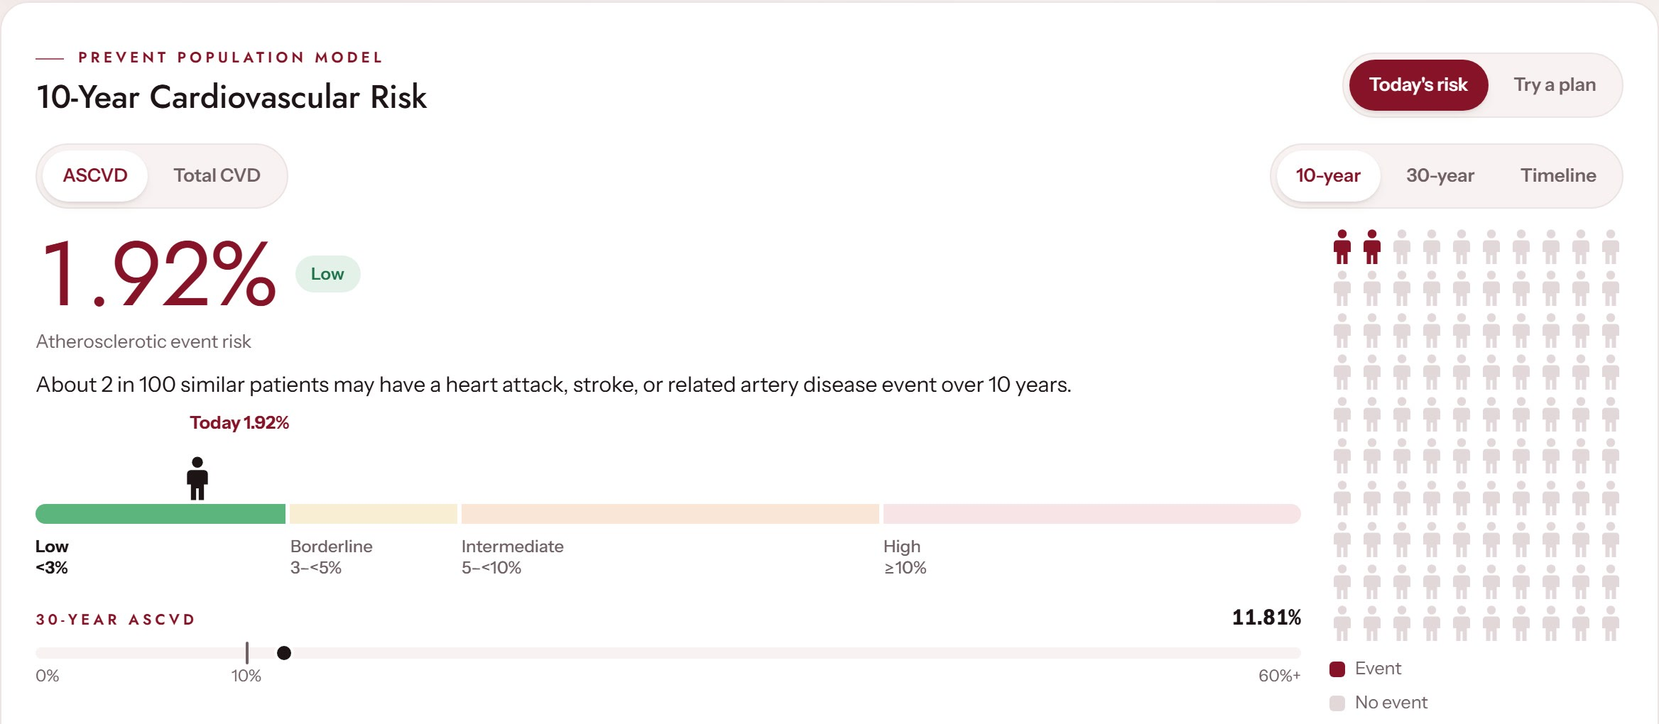
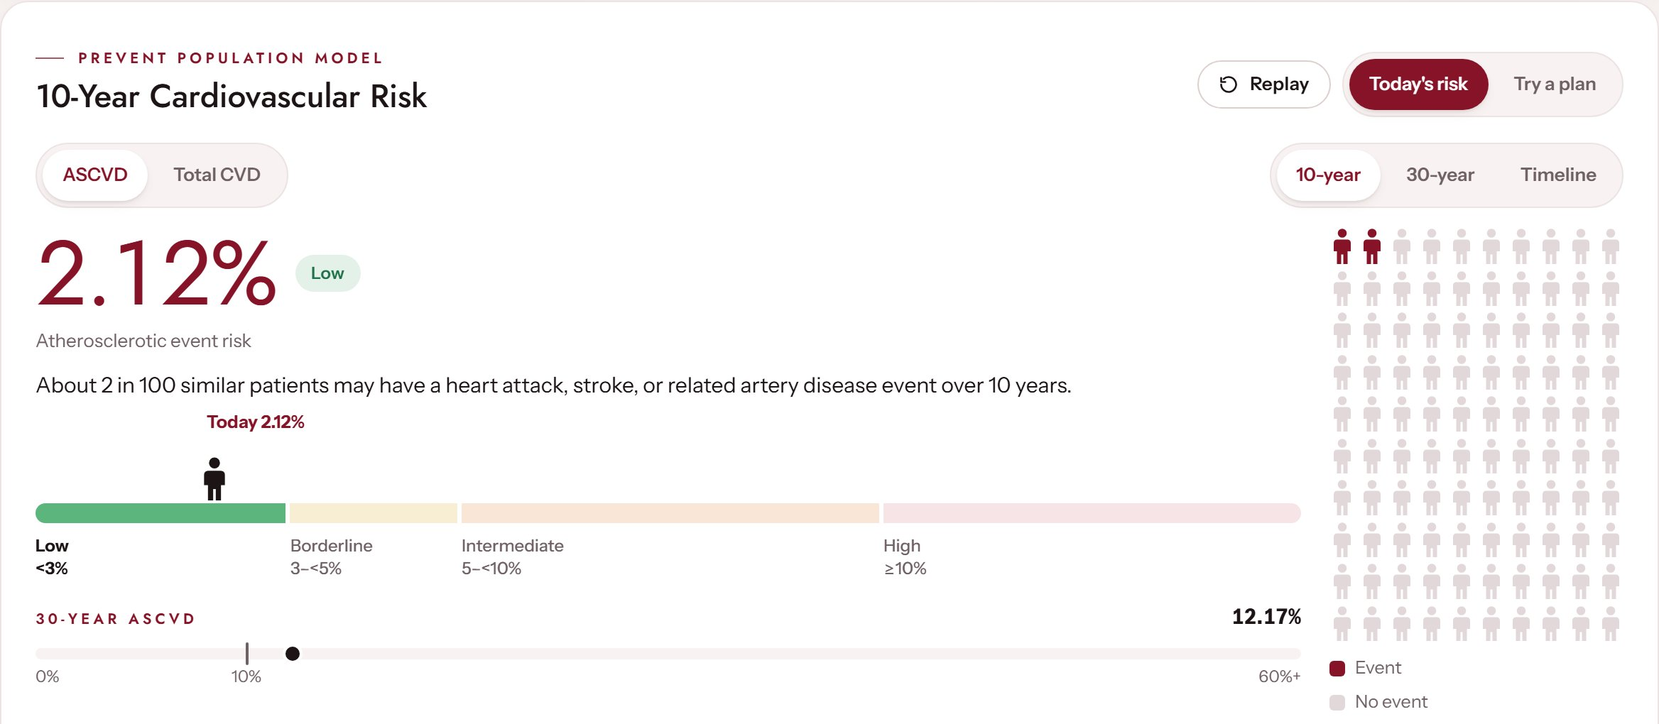
Landing: PREVENT-driven Try a plan demo, verified sources, NHANES callout
Publish the reviewed landing page from rcckm-nextjs-preview
(landing/new-ckm-refresh, PR #53):

- Try a plan: buttons show their PREVENT change with † / * method marks;
  no RSS or triglyceride controls; Level tile removed; 100-person array
  labelled "PREVENT model"; three levers including A1c 6.1% -> 5.5%,
  re-run from the engine for the demo patient.
- "A Level describes the pattern. PREVENT supplies the probability."
- Stat cards checked against sources (Aggarwal JAMA 2024, Neprash Medical
  Care 2021, Alexander J Gen Intern Med 2025) with corrected wording/links.
- NHANES callout "A low score isn't always the whole story." with source.
- Screenshots retaken from the app.

This replaces the page as a whole, so the "clinical summary / category"
wording from #7 is not carried over.

diff --git a/index.html b/index.html
@@ -127,6 +127,13 @@
     .stats { padding: 0 0 120px; }
     .stats-grid { display: grid; grid-template-columns: repeat(3, 1fr); gap: 1px; background: var(--line); border: 1px solid var(--line); border-radius: var(--radius); overflow: hidden; }
     .stat { background: var(--surface); padding: 34px 32px; }
+    .cont-tag { margin-top: 10px; font-size: 16px; color: var(--muted); }
+    .cont-tag b { color: var(--ink); font-weight: 600; }
+    .stats-note { margin-top: 28px; padding: 22px 26px; border-left: 4px solid var(--accent); background: var(--surface); border-radius: 0 18px 18px 0; box-shadow: var(--shadow); }
+    .stats-note h3 { font-size: clamp(24px, 2.6vw, 32px); line-height: 1.15; margin-bottom: 10px; }
+    .stats-note p { font-size: 18px; color: var(--body); max-width: 72ch; }
+    .stats-note p + p { margin-top: 10px; }
+    .stats-note .stats-src { display: block; margin-top: 12px; font-size: 13px; font-style: normal; color: var(--muted); }
     .stat-num { font-family: var(--display); font-size: 54px; line-height: 1; color: var(--ink); font-weight: 500; }
     .stat p { margin-top: 14px; font-size: 17px; color: var(--body); }
     .stat cite { display: block; margin-top: 14px; font-size: 14px; font-style: normal; color: var(--muted); }
@@ -171,7 +178,9 @@
     .lever em { font-style: normal; font-size: 14px; font-weight: 600; color: var(--good); white-space: nowrap; }
     .lever.on { background: var(--good-soft); border-color: var(--good); }
     .lever.on .chk { width: 14px; }
-    .lever.static { cursor: default; color: var(--muted); }
+    .lever .mark { margin-left: -8px; font-size: 11px; color: var(--muted); cursor: help; }
+    .marks { margin: 8px 0 0; font-size: 12.5px; color: var(--muted); }
+    .marks span { cursor: help; }
     .summary { margin-top: 14px; background: var(--bg-2); border-radius: 14px; padding: 14px 18px; font-size: 17px; color: var(--body); min-height: 54px; }
     .summary b { color: var(--ink); }
     .summary .g { color: var(--good); font-weight: 700; }
@@ -182,6 +191,7 @@
     .legend { display: flex; gap: 18px; flex-wrap: wrap; font-size: 15px; color: var(--muted); margin-top: 6px; }
     .legend i { display: inline-block; width: 12px; height: 12px; border-radius: 3px; margin-right: 6px; vertical-align: -1px; }
     .people-box { background: var(--bg-2); border: 1px solid var(--line); border-radius: 18px; padding: 18px; }
+    .people-box h4 small.people-src { display: block; margin-top: 2px; font-family: var(--ui); font-size: 12px; font-weight: 600; letter-spacing: .12em; text-transform: uppercase; color: var(--muted); }
     .people-box h4 { font-family: var(--display); font-size: 17px; font-weight: 500; color: var(--ink); margin-bottom: 12px; }
     .people { display: grid; grid-template-columns: repeat(10, 1fr); gap: 5px 6px; max-width: 320px; }
     .people svg { width: 100%; height: auto; display: block; fill: var(--icon-off); transition: fill .45s; }
@@ -474,27 +484,28 @@
       <p class="hero-meta">38 synthetic demo cases to try &middot; SmartPhrase template &middot; Paste from any EMR</p>
     </div>
 
-    <div class="card cont" id="cont" aria-label="RCCKM Clinical Summary: emerging risk trajectory, category 3B, plaque unmeasured">
+    <div class="card cont" id="cont" aria-label="Risk Continuum: this patient is at Level 3B, Emerging Risk Trajectory, plaque unmeasured">
       <div class="cont-head">
-        <div><div class="card-eyebrow">Position</div><div class="card-title">RCCKM Clinical Summary</div></div>
+        <div><div class="card-eyebrow">Position</div><div class="card-title">Risk Continuum</div></div>
         <div style="display:flex; gap:10px; align-items:center;">
-          <span class="pill-now">Current: Emerging risk trajectory</span>
+          <span class="pill-now">Current: Level 3B</span>
           <button class="btn btn-ghost btn-sm" id="cont-replay" type="button">↻ Replay</button>
         </div>
       </div>
       <div class="tiles" aria-hidden="true">
         <div class="walker" id="walker"><span class="here-lbl">YOU ARE HERE</span><svg width="28" height="40" viewBox="0 0 24 34"><circle cx="12" cy="5" r="4.2" fill="#861327"/><path d="M7 11h10a3 3 0 0 1 3 3v8h-3v12h-4v-9h-2v9H7V22H4v-8a3 3 0 0 1 3-3z" fill="#861327"/></svg></div>
-        <div class="tile" style="background:var(--t1); --acc:var(--a1); --d:8px; transition-delay:0s"><i class="dot"></i><div><b>Minimal risk signal</b><span>category 1</span></div></div>
-        <div class="tile" style="background:var(--t2); --acc:var(--a2); --d:12px; transition-delay:.08s"><i class="dot"></i><div><b>Emerging risk signals</b><span>category 2</span></div></div>
-        <div class="tile" style="background:var(--t3); --acc:var(--a3); --d:16px; transition-delay:.16s"><i class="dot"></i><div><b>Emerging risk trajectory</b><span>category 3B</span></div><small>Plaque unmeasured</small></div>
-        <div class="tile future" style="background:var(--t4); --acc:var(--a4); --d:20px; transition-delay:.24s"><i class="dot"></i><div><b>Coronary plaque present</b><span>category 4</span></div></div>
-        <div class="tile future" style="background:var(--t5); --acc:var(--a5); --d:24px; transition-delay:.32s"><i class="dot"></i><div><b>Established disease or high plaque burden</b><span>category 5</span></div></div>
+        <div class="tile" style="background:var(--t1); --acc:var(--a1); --d:8px; transition-delay:0s"><i class="dot"></i><div><b>Level 1</b><span>Minimal risk signal</span></div></div>
+        <div class="tile" style="background:var(--t2); --acc:var(--a2); --d:12px; transition-delay:.08s"><i class="dot"></i><div><b>Level 2</b><span>Emerging risk signals</span></div></div>
+        <div class="tile" style="background:var(--t3); --acc:var(--a3); --d:16px; transition-delay:.16s"><i class="dot"></i><div><b>Level 3B</b><span>Emerging Risk Trajectory</span></div><small>Plaque unmeasured</small></div>
+        <div class="tile future" style="background:var(--t4); --acc:var(--a4); --d:20px; transition-delay:.24s"><i class="dot"></i><div><b>Level 4</b><span>Subclinical atherosclerosis present</span></div></div>
+        <div class="tile future" style="background:var(--t5); --acc:var(--a5); --d:24px; transition-delay:.32s"><i class="dot"></i><div><b>Level 5</b><span>Very high risk</span></div></div>
       </div>
       <div class="cont-foot"><span>&larr; Lower signal / lower urgency</span><span>Higher signal / higher urgency &rarr;</span></div>
-      <p class="cont-line"><b>Emerging risk trajectory &middot; category 3B.</b> Elevated 30-year trajectory plus actionable biologic burden.</p>
+      <p class="cont-line"><b>Level 3B | Emerging Risk Trajectory.</b> Elevated 30-year trajectory plus actionable biologic burden.</p>
+      <p class="cont-tag"><b>A Level describes the pattern. PREVENT supplies the probability.</b> Every patient gets a Level, including when a PREVENT estimate doesn't apply.</p>
       <div class="levels-info">
-        <button class="levels-btn" type="button" aria-expanded="false" aria-controls="levels-pop"><span aria-hidden="true">ⓘ</span> How to read the summary</button>
-        <div class="levels-pop" id="levels-pop" role="tooltip">RCCKM brings the patient's findings together into a concise clinical summary. Its interpretation categories organize the evidence and explain the pattern driving the assessment. Formal CKM staging, kidney classification, and PREVENT risk estimates are reported separately using their respective frameworks.</div>
+        <button class="levels-btn" type="button" aria-expanded="false" aria-controls="levels-pop"><span aria-hidden="true">ⓘ</span> How to read the levels</button>
+        <div class="levels-pop" id="levels-pop" role="tooltip">RCCKM brings the patient's findings together into a concise clinical summary. The levels organize the evidence and name the pattern driving the assessment. Formal CKM staging, KDIGO kidney classification and PREVENT risk estimates are reported separately, each using its own framework.</div>
       </div>
     </div>
   </div>
@@ -506,19 +517,25 @@
     <div class="stats-grid reveal">
       <div class="stat">
         <div class="stat-num">90%</div>
-        <p>of U.S. adults have at least one CKM risk factor. Nearly half meet criteria for stage 2 or higher, often without knowing it.</p>
-        <cite>Aggarwal et al., <a href="https://jamanetwork.com/journals/jama/fullarticle/2818761" target="_blank" rel="noopener">JAMA, 2024</a></cite>
+        <p>of U.S. adults meet criteria for CKM syndrome. Nearly half are at stage 2, with metabolic risk factors or kidney disease, where prevention has the most room to work.</p>
+        <cite>Aggarwal et al., <a href="https://doi.org/10.1001/jama.2024.6892" target="_blank" rel="noopener">JAMA, 2024</a></cite>
       </div>
       <div class="stat">
         <div class="stat-num">15 min</div>
-        <p>is the median primary care visit. Not much time to pull a full cardiometabolic picture together by hand.</p>
-        <cite>Neprash et al., <a href="https://doi.org/10.1097/MLR.0000000000001450" target="_blank" rel="noopener">Medical Care, 2020</a></cite>
+        <p>is the median primary care visit. The evidence is ready; bringing the whole cardiometabolic picture together in that time is the opportunity.</p>
+        <cite>Neprash et al., <a href="https://doi.org/10.1097/MLR.0000000000001450" target="_blank" rel="noopener">Medical Care, 2021</a></cite>
       </div>
       <div class="stat">
         <div class="stat-num">47%</div>
-        <p>of adults eligible for lipid-lowering therapy are not receiving it. A clear risk conversation at the point of care can help close that gap.</p>
-        <cite>Patel et al., <a href="https://publichealth.jhu.edu/2025/tens-of-thousands-of-heart-attacks-and-strokes-could-be-avoided-each-year-if-cholesterol-lowering-drugs-were-used-according-to-guidelines" target="_blank" rel="noopener">Johns Hopkins, 2025</a></cite>
+        <p>of U.S. adults 40&ndash;75 without heart disease are eligible for cholesterol-lowering therapy, and about 23% take it. A clear risk conversation at the point of care can help close that gap.</p>
+        <cite>Alexander et al., <a href="https://doi.org/10.1007/s11606-025-09625-0" target="_blank" rel="noopener">J Gen Intern Med, 2025</a></cite>
       </div>
+    </div>
+    <div class="stats-note reveal">
+      <h3>A low score isn&rsquo;t always the whole story.</h3>
+      <p>When we applied RCCKM to national CDC survey data, nearly 1 in 5 adults with a low 10-year PREVENT risk, representing about 14 million Americans, had additional findings worth surfacing. RCCKM helps do that.</p>
+      <p>Decades of research and the information already in a patient&rsquo;s chart can now come together at the point of care, to see the fuller picture, explore what could change, and turn that conversation into a prevention plan.</p>
+      <cite class="stats-src">Source: NHANES 2017&ndash;2018, adults 40&ndash;75; RCCKM engine run, October 2026.</cite>
     </div>
   </div>
 </section>
@@ -560,25 +577,21 @@
       </div>
       <p class="rp-sub">Tap an intervention and watch the picture change. Each scenario is a full engine run.</p>
       <div class="chips" role="group" aria-label="Interventions">
-        <button class="lever" type="button" data-lever="statin" aria-pressed="false"><span class="chk">✓</span>💊 Start a statin <em>&minus;2.7 pts (30-yr)</em></button>
-        <button class="lever" type="button" data-lever="bp" aria-pressed="false"><span class="chk">✓</span>🩺 Systolic BP to 120 <em>&minus;1.8 pts (30-yr)</em></button>
-        <span class="lever static">Triglycerides under 150 <em>RSS &minus;4</em></span>
-        <span class="lever static">A1c under 5.7% <em>RSS &minus;2</em></span>
+        <button class="lever" type="button" data-lever="statin" aria-pressed="false"><span class="chk">✓</span>💊 Start a statin<sup class="mark" title="Trial-derived treatment effect (CTT Collaboration)">†</sup> <em>&minus;2.8 pts &rarr; 9.4% &middot; 30-yr ASCVD</em></button>
+        <button class="lever" type="button" data-lever="bp" aria-pressed="false"><span class="chk">✓</span>🩺 Systolic BP to 120<sup class="mark" title="Trial-derived treatment effect (Ettehad 2016)">†</sup> <em>&minus;1.9 pts &rarr; 10.3% &middot; 30-yr ASCVD</em></button>
+        <button class="lever" type="button" data-lever="a1c" aria-pressed="false"><span class="chk">✓</span>🩸 A1c 6.1% &rarr; 5.5%<sup class="mark" title="Recalculated risk factor: PREVENT full model rerun with the new value. A modeled scenario, not a proven treatment effect.">*</sup> <em>&minus;0.5 pts &rarr; 11.7% &middot; 30-yr ASCVD</em></button>
       </div>
+      <p class="marks"><span title="Today's PREVENT risk with the relative risk reduction seen in trials: CTT Collaboration for LDL-C, Ettehad 2016 for systolic BP."><sup>†</sup> Trial-derived treatment effect</span> &nbsp; <span title="PREVENT full model rerun with the new value. A modeled scenario, not a proven treatment effect."><sup>*</sup> Recalculated risk factor, not a treatment effect</span></p>
       <div class="summary" id="summary" aria-live="polite"></div>
       <div class="rp-body">
         <div>
           <p class="sentence" id="sentence"></p>
-          <svg class="chart" id="tl" viewBox="0 0 600 270" role="img" aria-label="Cumulative ASCVD risk timeline: 1.9% by age 62 and 11.8% by age 82 today"></svg>
+          <svg class="chart" id="tl" viewBox="0 0 600 270" role="img" aria-label="Cumulative ASCVD risk timeline: 2.1% by age 62 and 12.2% by age 82 today"></svg>
           <div class="legend"><span><i style="background:var(--muted)"></i>Today</span><span><i style="background:var(--good)"></i>With plan</span></div>
-          <div class="tiles-row">
-            <div class="mini"><span>Signal score</span><b id="m-rss">12</b></div>
-            <div class="mini"><span>Level</span><b id="m-lvl">3B</b></div>
-          </div>
         </div>
         <div>
           <div class="people-box">
-            <h4>100 similar patients over 30 years</h4>
+            <h4>100 similar patients over 30 years <small class="people-src">PREVENT model</small></h4>
             <div class="people" id="people" aria-hidden="true"></div>
             <div class="people-leg">
               <span><i style="background:var(--accent)"></i><b id="pl-ev">12</b> may have a heart attack or stroke</span>
@@ -599,13 +612,13 @@
         <ul class="ticks">
           <li><span>🔬</span>LDL-C and systolic BP effects use CTT Collaboration and Ettehad 2016 trial data, cited on screen.</li>
           <li><span>🔁</span>Other changes rerun the PREVENT equations with the new value.</li>
-          <li><span>🧭</span>Level, Risk Signal Score and actions update for the patient with those values.</li>
+          <li><span>🧭</span>Level and actions update for the patient with those values.</li>
         </ul>
         <p class="fineprint">Modeled estimates for clinician review. A lower modeled value does not establish an individual treatment benefit.</p>
       </div>
       <div class="window reveal">
         <div class="window-bar"><i></i><i></i><i></i><span>Risk and plan</span></div>
-        <img src="assets/landing/app-tryplan.jpg" alt="The app's Risk and plan card: statin and systolic BP 120 selected, timeline showing 30-year ASCVD 11.8% today and 7.7% with the plan, ranked levers with trial sources" width="2336" height="3700" loading="lazy" />
+        <img src="assets/landing/app-tryplan.jpg" alt="The app's Risk and plan card: statin and systolic BP 120 selected, each button showing its PREVENT change, timeline showing 30-year ASCVD 12.2% today and 7.9% with the plan, ranked levers with trial sources" width="2336" height="3394" loading="lazy" />
       </div>
     </div>
 
@@ -617,7 +630,7 @@
       </div>
       <div class="window reveal">
         <div class="window-bar"><i></i><i></i><i></i><span>Clinical report &middot; EMR plain text</span></div>
-        <img src="assets/landing/app-note.jpg" alt="EMR plain-text note ending with Risk Reduction Discussed: statin therapy and systolic BP 120 mmHg, modeled PREVENT ASCVD 10-year 1.9% to 1.2%, 30-year 11.8% to 7.7%" width="2336" height="1468" loading="lazy" />
+        <img src="assets/landing/app-note.jpg" alt="EMR plain-text note ending with Risk Reduction Discussed: statin therapy and systolic BP 120 mmHg, modeled PREVENT ASCVD 10-year 2.1% to 1.4%, 30-year 12.2% to 7.9%" width="2336" height="1528" loading="lazy" />
       </div>
     </div>
   </div>
@@ -640,7 +653,7 @@
       <div class="sdm-card reveal"><div class="em">🗺</div><h3>A roadmap to take home</h3><p>Where you stand, why, your goals and your next steps, in plain language.</p></div>
     </div>
     <figure class="sdm-wide reveal">
-      <div class="paper-frame"><img src="assets/landing/app-prevent-room.jpg" alt="PREVENT card: 1.92% 10-year ASCVD risk, about 2 in 100 similar patients, shown as 2 highlighted people out of 100" width="2336" height="1020" loading="lazy" /></div>
+      <div class="paper-frame"><img src="assets/landing/app-prevent-room.jpg" alt="PREVENT card: 2.12% 10-year ASCVD risk, about 2 in 100 similar patients, shown as 2 highlighted people out of 100" width="2336" height="1020" loading="lazy" /></div>
       <figcaption class="shot-cap"><b>In the room.</b> Risk represented visually.</figcaption>
     </figure>
     <div class="sdm-shots">
@@ -650,7 +663,7 @@
         <p class="lede">Where they stand, why their risk is higher, their goals next to their current numbers, and numbered next steps. Copy it into the after-visit summary or print it.</p>
       </div>
       <figure class="reveal">
-        <div class="paper-frame"><img src="assets/landing/app-roadmap-light.jpg" alt="Patient Prevention Roadmap: where you stand, why your risk is higher, your goals, your next steps" width="2336" height="2738" loading="lazy" /></div>
+        <div class="paper-frame"><img src="assets/landing/app-roadmap-light.jpg" alt="Patient Prevention Roadmap: where you stand, why your risk is higher, your goals, your next steps" width="2336" height="2732" loading="lazy" /></div>
         <figcaption class="shot-cap"><b>On the way out.</b> A printable roadmap in the patient's language.</figcaption>
       </figure>
     </div>
@@ -668,7 +681,7 @@
       <p class="lede">Paste de-identified chart text or enter values in the worksheet, then press Start Assessment. Everything below comes back in seconds from a deterministic engine you can audit.</p>
     </div>
     <div class="sections">
-      <div class="sec reveal"><div class="em">📍</div><h3>Position</h3><p>A clinical summary that names the pattern, with its category on the continuum.</p></div>
+      <div class="sec reveal"><div class="em">📍</div><h3>Position</h3><p>Level 1 to 5 on the continuum, with the pattern named.</p></div>
       <div class="sec reveal"><div class="em">❤</div><h3>Risk and plan</h3><p>PREVENT at 10 and 30 years, the timeline, and Try a plan.</p></div>
       <div class="sec reveal"><div class="em">📈</div><h3>Trajectory</h3><p>How A1c, LDL-C, eGFR, BP and weight have moved.</p></div>
       <div class="sec reveal"><div class="em">🫘</div><h3>Staging</h3><p>CKM and KDIGO stage, plus diagnoses you confirm.</p></div>
@@ -725,7 +738,7 @@
     <div class="demo-head reveal">
       <span class="eyebrow">Try it here</span>
       <h2 class="h2" id="demo-h2">Pick a patient. Read the note RCCKM wrote.</h2>
-      <p class="lede">Four synthetic demo patients, from a clean prevention visit to high coronary plaque burden on a statin. Each note is the engine's own output.</p>
+      <p class="lede">Four synthetic demo patients, from a clean prevention visit to very high plaque burden on a statin. Each note is the engine's own output.</p>
     </div>
     <div class="chips" role="tablist" aria-label="Demo patients">
       <button class="pchip is-on" data-p="0" role="tab" type="button">🌱 34F &middot; clean visit</button>
@@ -733,13 +746,13 @@
       <button class="pchip" data-p="2" role="tab" type="button">🫀 62F &middot; CAC 38</button>
       <button class="pchip" data-p="3" role="tab" type="button">🚨 67M &middot; on statin, CAC 420</button>
     </div>
-    <div class="track" aria-hidden="true"><div class="marker" id="marker"><span class="marker-label" id="marker-label">Minimal risk signal</span></div></div>
+    <div class="track" aria-hidden="true"><div class="marker" id="marker"><span class="marker-label" id="marker-label">Level 1</span></div></div>
     <div class="zones" aria-hidden="true">
-      <div>Minimal risk signal<span>category 1</span></div>
-      <div>Emerging risk signals<span>category 2</span></div>
-      <div>Actionable biologic risk<span>category 3</span></div>
-      <div>Coronary plaque present<span>category 4</span></div>
-      <div>Very high risk<span>category 5</span></div>
+      <div>Level 1<span>Minimal risk signal</span></div>
+      <div>Level 2<span>Emerging risk signals</span></div>
+      <div>Level 3<span>Emerging risk trajectory</span></div>
+      <div>Level 4<span>Subclinical atherosclerosis</span></div>
+      <div>Level 5<span>Very high risk</span></div>
     </div>
     <div class="demo-panel">
       <aside class="pt">
@@ -995,7 +1008,7 @@
     }, 0.2);
 
     /* 2b. Risk Signal Score tower: engine contributors; each block falls in from the top and lands on the stack. */
-    var RSS = [{"name": "52F · category 3B", "score": 12, "label": "Low", "items": [{"label": "A1c 6.1%", "sub": "", "tag": "A1c 6.1%", "pts": 2, "color": "#7C3AED"}, {"label": "Reproductive history", "sub": "", "tag": "Reproductive history", "pts": 2, "color": "#C2410C"}, {"label": "Triglycerides 168 mg/dL", "sub": "", "tag": "TG 168 mg/dL", "pts": 4, "color": "#2F5F8F"}, {"label": "ApoB 92 mg/dL", "sub": "", "tag": "ApoB 92 mg/dL", "pts": 4, "color": "#D97706"}]}, {"name": "67M · category 5", "score": 55, "label": "High", "items": [{"label": "A1c 5.9%", "sub": "", "tag": "A1c 5.9%", "pts": 2, "color": "#7C3AED"}, {"label": "Triglycerides 190 mg/dL", "sub": "", "tag": "TG 190 mg/dL", "pts": 4, "color": "#2F5F8F"}, {"label": "Blood pressure, 126/74 mmHg; treated", "sub": "", "tag": "126/74 mmHg; treated", "pts": 3, "color": "#2563EB"}, {"label": "Lp(a) 210.0 nmol/L", "sub": "", "tag": "Lp(a) 210.0 nmol/L", "pts": 8, "color": "#4F46E5"}, {"label": "ApoB 102 mg/dL", "sub": "", "tag": "ApoB 102 mg/dL", "pts": 8, "color": "#D97706"}, {"label": "Coronary calcium 420", "sub": "", "tag": "CAC 420", "pts": 30, "color": "#7A1530"}]}];
+    var RSS = [{"name": "52F · Level 3B", "score": 12, "label": "Low", "items": [{"label": "A1c 6.1%", "sub": "", "tag": "A1c 6.1%", "pts": 2, "color": "#7C3AED"}, {"label": "Reproductive history", "sub": "", "tag": "Reproductive history", "pts": 2, "color": "#C2410C"}, {"label": "Triglycerides 168 mg/dL", "sub": "", "tag": "TG 168 mg/dL", "pts": 4, "color": "#2F5F8F"}, {"label": "ApoB 92 mg/dL", "sub": "", "tag": "ApoB 92 mg/dL", "pts": 4, "color": "#D97706"}]}, {"name": "67M · Level 5", "score": 55, "label": "High", "items": [{"label": "A1c 5.9%", "sub": "", "tag": "A1c 5.9%", "pts": 2, "color": "#7C3AED"}, {"label": "Triglycerides 190 mg/dL", "sub": "", "tag": "TG 190 mg/dL", "pts": 4, "color": "#2F5F8F"}, {"label": "Blood pressure, 126/74 mmHg; treated", "sub": "", "tag": "126/74 mmHg; treated", "pts": 3, "color": "#2563EB"}, {"label": "Lp(a) 210.0 nmol/L", "sub": "", "tag": "Lp(a) 210.0 nmol/L", "pts": 8, "color": "#4F46E5"}, {"label": "ApoB 102 mg/dL", "sub": "", "tag": "ApoB 102 mg/dL", "pts": 8, "color": "#D97706"}, {"label": "Coronary calcium 420", "sub": "", "tag": "CAC 420", "pts": 30, "color": "#7A1530"}]}];
     var CANVAS = 100, FALL_MS = 380, LABEL_MIN_PX = 24;
     var towerEl = document.getElementById("tower"), contribEl = document.getElementById("contribs");
     var rssNum = document.getElementById("rss-num"), rssPill = document.getElementById("rss-pill"), rssChips = document.getElementById("rss-chips");
@@ -1059,14 +1072,20 @@
 
     /* 3. Try a plan: the engine's simulate output for this patient, per lever combination. */
     var AGE = 52;
+    /* Keyed by the selected levers in this order; rel is null below a 1-point change. */
     var SCEN = {
-      none:   { r10: 1.92, r30: 11.81, rss: 12, lvl: "3B", rel: null },
-      statin: { r10: 1.46, r30: 9.10,  rss: 8,  lvl: "2B", rel: 25 },
-      bp:     { r10: 1.61, r30: 9.98,  rss: 12, lvl: "3B", rel: 15 },
-      both:   { r10: 1.22, r30: 7.67,  rss: 8,  lvl: "2B", rel: 35 }
+      none:            { r10: 2.12, r30: 12.17, lvl: "3B", rel: null },
+      statin:          { r10: 1.61, r30: 9.38,  lvl: "3B", rel: 25 },
+      bp:              { r10: 1.78, r30: 10.29, lvl: "3B", rel: 15 },
+      a1c:             { r10: 1.97, r30: 11.67, lvl: "3B", rel: null },
+      "statin+bp":     { r10: 1.35, r30: 7.91,  lvl: "2B", rel: 35 },
+      "statin+a1c":    { r10: 1.50, r30: 8.99,  lvl: "2B", rel: 25 },
+      "bp+a1c":        { r10: 1.65, r30: 9.87,  lvl: "3B", rel: 20 },
+      "statin+bp+a1c": { r10: 1.26, r30: 7.58,  lvl: "2B", rel: 40 }
     };
-    var NOW = SCEN.none, NAMES = { statin: "Start a statin", bp: "Systolic BP to 120" };
-    var on = { statin: false, bp: false }, cur = { r10: NOW.r10, r30: NOW.r30 };
+    var ORDER = ["statin", "bp", "a1c"];
+    var NOW = SCEN.none, NAMES = { statin: "Start a statin", bp: "Systolic BP to 120", a1c: "A1c 6.1% \u2192 5.5%" };
+    var on = { statin: false, bp: false, a1c: false }, cur = { r10: NOW.r10, r30: NOW.r30 };
     var levers = document.querySelectorAll(".lever[data-lever]");
     var tl = document.getElementById("tl"), people = document.getElementById("people");
     var W = 600, H = 270, L = 46, R = 76, T = 18, B = 40, TOP = 20;
@@ -1124,20 +1143,20 @@
       document.getElementById("pl-pv").textContent = evToday - evPlan;
       document.getElementById("pl-pv-row").style.visibility = evToday - evPlan > 0 ? "visible" : "hidden";
     }
-    function key() { return on.statin && on.bp ? "both" : on.statin ? "statin" : on.bp ? "bp" : "none"; }
+    function key() { return ORDER.filter(function (n) { return on[n]; }).join("+") || "none"; }
     function render(animate) {
       var k = key(), s = SCEN[k], moved = k !== "none";
       levers.forEach(function (b) { var o = on[b.dataset.lever]; b.classList.toggle("on", o); b.setAttribute("aria-pressed", o ? "true" : "false"); });
-      var names = ["statin", "bp"].filter(function (n) { return on[n]; }).map(function (n) { return NAMES[n]; }).join(" + ");
+      var names = ORDER.filter(function (n) { return on[n]; }).map(function (n) { return NAMES[n]; }).join(" + ");
       document.getElementById("summary").innerHTML = moved
-        ? "<b>" + names + "</b>&nbsp;&nbsp;30-yr ASCVD " + NOW.r30.toFixed(2) + "% &rarr; <span class=\"g\">" + s.r30.toFixed(2) + "% (about " + s.rel + "% lower)</span> &middot; 10-yr ASCVD " + NOW.r10.toFixed(2) + "% &rarr; <span class=\"g\">" + s.r10.toFixed(2) + "%</span>"
+        ? "<b>" + names + "</b>&nbsp;&nbsp;30-yr ASCVD " + NOW.r30.toFixed(2) + "% &rarr; <span class=\"g\">" + s.r30.toFixed(2) + "%" + (s.rel ? " (about " + s.rel + "% lower)" : "") + "</span> &middot; 10-yr ASCVD " + NOW.r10.toFixed(2) + "% &rarr; <span class=\"g\">" + s.r10.toFixed(2) + "%</span>"
         : "Today: 30-yr ASCVD <b>" + NOW.r30.toFixed(2) + "%</b> &middot; 10-yr ASCVD <b>" + NOW.r10.toFixed(2) + "%</b>. Tap an intervention.";
       document.getElementById("sentence").textContent = moved
-        ? "By age " + (AGE + 30) + ", about " + Math.round(s.r30) + " in 100 similar patients instead of " + Math.round(NOW.r30) + " (about " + s.rel + "% lower)."
+        ? (Math.round(s.r30) === Math.round(NOW.r30)
+          ? "By age " + (AGE + 30) + ", about " + Math.round(s.r30) + " in 100 similar patients, a change of less than one person in 100."
+          : "By age " + (AGE + 30) + ", about " + Math.round(s.r30) + " in 100 similar patients instead of " + Math.round(NOW.r30) + (s.rel ? " (about " + s.rel + "% lower)." : "."))
         : "Without changes, about " + Math.round(NOW.r30) + " in 100 similar patients may have a heart attack or stroke by age " + (AGE + 30) + ".";
-      document.getElementById("m-rss").innerHTML = moved && s.rss !== NOW.rss ? NOW.rss + " <em>&rarr; " + s.rss + "</em>" : String(NOW.rss);
-      document.getElementById("m-lvl").innerHTML = moved && s.lvl !== NOW.lvl ? NOW.lvl + " <em>&rarr; " + s.lvl + "</em>" : NOW.lvl;
-      tl.setAttribute("aria-label", "Cumulative ASCVD risk: today 1.9% by age 62 and 11.8% by age 82" + (moved ? "; with plan " + s.r10.toFixed(1) + "% and " + s.r30.toFixed(1) + "%" : ""));
+      tl.setAttribute("aria-label", "Cumulative ASCVD risk: today 2.1% by age 62 and 12.2% by age 82" + (moved ? "; with plan " + s.r10.toFixed(1) + "% and " + s.r30.toFixed(1) + "%" : ""));
       setPeople(Math.round(NOW.r30), Math.round(s.r30));
       if (!moved) { cur.r10 = NOW.r10; cur.r30 = NOW.r30; drawPlan(NOW.r10, NOW.r30, false); return; }
       var f10 = cur.r10, f30 = cur.r30;
@@ -1147,10 +1166,10 @@
       });
     }
     var auto = !reduced, autoTimer = null, autoIdx = 0;
-    var SEQ = [{ statin: false, bp: false }, { statin: true, bp: false }, { statin: true, bp: true }, { statin: true, bp: true }];
+    var SEQ = [{ statin: false, bp: false, a1c: false }, { statin: true, bp: false, a1c: false }, { statin: true, bp: true, a1c: false }, { statin: true, bp: true, a1c: true }, { statin: true, bp: true, a1c: true }];
     var autoNote = document.getElementById("autoplay");
     function stopAuto() { auto = false; if (autoTimer) clearInterval(autoTimer); autoTimer = null; autoNote.textContent = "Tap the levers to compare plans."; }
-    function tick() { autoIdx = (autoIdx + 1) % SEQ.length; on = { statin: SEQ[autoIdx].statin, bp: SEQ[autoIdx].bp }; render(); }
+    function tick() { autoIdx = (autoIdx + 1) % SEQ.length; on = { statin: SEQ[autoIdx].statin, bp: SEQ[autoIdx].bp, a1c: SEQ[autoIdx].a1c }; render(); }
     levers.forEach(function (b) {
       b.addEventListener("click", function () { stopAuto(); on[b.dataset.lever] = !on[b.dataset.lever]; render(); });
     });
@@ -1173,7 +1192,7 @@
     });
 
     /* 4. Live demo: synthetic demo cases; each note is RCCKM engine output. */
-    var patients = [{"name": "Patient A", "meta": "34F · non-smoker · clean prevention visit", "labs": [["A1c", "5.2 %"], ["LDL-C", "88 mg/dL"], ["ApoB", "70 mg/dL"], ["BP", "108/68"], ["eGFR · UACR", "105 · 4"], ["BMI", "22.0"]], "flags": [], "pos": 10, "label": "Minimal risk signal · category 1", "note": "[k]Risk Continuum CKM™[/k]\nLevel 1 | CKM 0\n[k]PREVENT ASCVD:[/k] 10y 0.2% (Low), 30y 1.2% (Low) | Total CVD: 10y 0.2%, 30y 1.9%\n\n[k]Management Considerations:[/k]\n- [k]Lipids:[/k] No lipid-lowering medication indicated. LDL-C 88.\n- [k]Plaque:[/k] CAC not indicated.\n- [k]Kidney:[/k] Stable.\n- [k]BP:[/k] Continue routine BP surveillance.\n- [k]Metabolic:[/k] No glycemic action. A1c 5.2%.\n- [k]Aspirin:[/k] Not indicated."}, {"name": "Patient B", "meta": "52F · gestational diabetes hx · labs rising since 2024", "labs": [["A1c", "6.1 % ↑"], ["LDL-C", "122 mg/dL ↑"], ["ApoB", "92 mg/dL"], ["TG", "168 mg/dL ↑"], ["BP", "128/78 ↑"], ["BMI", "31.6"]], "flags": [0, 1, 3, 5], "pos": 50, "label": "Emerging risk trajectory · category 3B", "note": "[k]Risk Continuum CKM™[/k]\nLevel 3B | Emerging Risk Trajectory | CKM 2 | CAC Not Measured\n[k]PREVENT ASCVD:[/k] 10y 1.9% (Low), 30y 11.8% (Mildly elevated) | Total CVD: 10y 3.0%, 30y 19.6%\n\n[k]Assessment (ICD-10):[/k]\n- Hypertriglyceridemia (E78.1)\n- Prediabetes (R73.03)\n- Obesity, BMI 31.6 (E66.9, Z68.31)\n\n[k]Management Considerations:[/k]\n- [k]Lipids:[/k] Moderate-intensity statin reasonable. LDL-C 122. If treatment is selected: LDL-C goal <100.\n- [k]Plaque:[/k] Consider CAC.\n- [k]Kidney:[/k] Stable.\n- [k]BP:[/k] Continue routine BP surveillance.\n- [k]Metabolic:[/k] BMI >=30 — consider GLP-1 RA for weight/cardiometabolic risk. A1c 6.1%.\n- [k]Aspirin:[/k] Not indicated."}, {"name": "Patient C", "meta": "62F · treated hypertension · CAC 38 (82nd percentile)", "labs": [["A1c", "5.8 %"], ["LDL-C", "128 mg/dL"], ["ApoB", "95 mg/dL"], ["BP", "132/78 · treated"], ["Lp(a)", "82 nmol/L"], ["CAC", "38"]], "flags": [1, 4, 5], "pos": 70, "label": "Coronary plaque present · category 4", "note": "[k]Risk Continuum CKM™[/k]\nLevel 4 | CKM 3 (CAC/subclinical CVD; CKD not established) | CAC 38\n[k]PREVENT ASCVD:[/k] 10y 4.4% (Borderline) | Total CVD: 10y 7.7%\n\n[k]Assessment (ICD-10):[/k]\n- Subclinical coronary atherosclerosis (CAC 38)\n- Primary hypertension (I10)\n- Prediabetes (R73.03)\n\n[k]Risk Drivers:[/k]\nCAC 38\n\n[k]Context:[/k]\n- Lp(a) 82 nmol/L (intermediate)\n\n[k]Management Considerations:[/k]\n- [k]Lipids:[/k] Moderate-intensity statin recommended. LDL-C 128; target <70.\n- [k]Plaque:[/k] Known plaque.\n- [k]Kidney:[/k] Stable.\n- [k]BP:[/k] Confirm BP; treat if persistent. Current BP 132/78 mmHg.\n- [k]Metabolic:[/k] GLP-1 weight therapy: eligible. BMI 29.5 with hypertension; A1c 5.8%.\n- [k]Aspirin:[/k] Not indicated.\n\n[k]Further Risk Assessment:[/k]\n- hsCRP"}, {"name": "Patient D", "meta": "67M · on rosuvastatin 20 mg · CAC 420 · Lp(a) 210", "labs": [["LDL-C", "104 mg/dL on statin"], ["ApoB", "102 mg/dL"], ["Lp(a)", "210 nmol/L"], ["CAC", "420"], ["BP", "126/74 · treated"], ["A1c", "5.9 %"]], "flags": [0, 1, 2, 3], "pos": 90, "label": "High coronary plaque burden · category 5", "note": "[k]Risk Continuum CKM™[/k]\nLevel 5 | CKM 3 (CAC/subclinical CVD; CKD not established) | CAC 420\n[k]PREVENT:[/k] Not applicable (CAC >=300 indicates severe subclinical cardiovascular disease; PREVENT is not reported in this context)\n\n[k]Assessment (ICD-10):[/k]\n- Severe subclinical coronary atherosclerosis (CAC 420)\n- Primary hypertension (I10)\n- Elevated lipoprotein(a) (E78.41)\n- Hypertriglyceridemia (E78.1)\n- Prediabetes (R73.03)\n\n[k]Risk Drivers:[/k]\nCAC 420 | ApoB 102 mg/dL | Lp(a) 210 nmol/L\n\n[k]Management Considerations:[/k]\n- [k]Lipids:[/k] Currently receiving rosuvastatin 20 mg. LDL-C 104; target <70. Review current lipid-lowering regimen and residual target gap. Consider additional nonstatin LDL-lowering therapy.\n- [k]Plaque:[/k] Known plaque.\n- [k]Kidney:[/k] Stable.\n- [k]BP:[/k] Continue current BP regimen.\n- [k]Metabolic:[/k] GLP-1 weight therapy: eligible. BMI 29 with hypertension; A1c 5.9%.\n- [k]Aspirin:[/k] Low-dose aspirin is generally reasonable if bleeding risk is acceptable."}];
+    var patients = [{"name": "Patient A", "meta": "34F · non-smoker · clean prevention visit", "labs": [["A1c", "5.2 %"], ["LDL-C", "88 mg/dL"], ["ApoB", "70 mg/dL"], ["BP", "108/68"], ["eGFR · UACR", "105 · 4"], ["BMI", "22.0"]], "flags": [], "pos": 10, "label": "Level 1 · Minimal risk signal", "note": "[k]Risk Continuum CKM™[/k]\nLevel 1 | CKM 0\n[k]PREVENT ASCVD:[/k] 10y 0.2% (Low), 30y 1.2% (Low) | Total CVD: 10y 0.2%, 30y 1.9%\n\n[k]Management Considerations:[/k]\n- [k]Lipids:[/k] No lipid-lowering medication indicated. LDL-C 88.\n- [k]Plaque:[/k] CAC not indicated.\n- [k]Kidney:[/k] Stable.\n- [k]BP:[/k] Continue routine BP surveillance.\n- [k]Metabolic:[/k] No glycemic action. A1c 5.2%.\n- [k]Aspirin:[/k] Not indicated."}, {"name": "Patient B", "meta": "52F · gestational diabetes hx · labs rising since 2024", "labs": [["A1c", "6.1 % ↑"], ["LDL-C", "122 mg/dL ↑"], ["ApoB", "92 mg/dL"], ["TG", "168 mg/dL ↑"], ["BP", "128/78 ↑"], ["BMI", "31.6"]], "flags": [0, 1, 3, 5], "pos": 50, "label": "Level 3B · Emerging Risk Trajectory", "note": "[k]Risk Continuum CKM™[/k]\nLevel 3B | Emerging Risk Trajectory | CKM 2 | CAC Not Measured\n[k]PREVENT ASCVD:[/k] 10y 2.1% (Low), 30y 12.2% (Mildly elevated) | Total CVD: 10y 3.4%, 30y 20.3%\n\n[k]Assessment (ICD-10):[/k]\n- Hypertriglyceridemia (E78.1)\n- Prediabetes (R73.03)\n- Obesity, BMI 31.6 (E66.9, Z68.31)\n\n[k]Management Considerations:[/k]\n- [k]Lipids:[/k] Moderate-intensity statin reasonable. LDL-C 122. If treatment is selected: LDL-C goal <100.\n- [k]Plaque:[/k] Consider CAC.\n- [k]Kidney:[/k] Stable.\n- [k]BP:[/k] Continue routine BP surveillance.\n- [k]Metabolic:[/k] BMI >=30 — consider GLP-1 RA for weight/cardiometabolic risk. A1c 6.1%.\n- [k]Aspirin:[/k] Not indicated."}, {"name": "Patient C", "meta": "62F · treated hypertension · CAC 38 (82nd percentile)", "labs": [["A1c", "5.8 %"], ["LDL-C", "128 mg/dL"], ["ApoB", "95 mg/dL"], ["BP", "132/78 · treated"], ["Lp(a)", "82 nmol/L"], ["CAC", "38"]], "flags": [1, 4, 5], "pos": 70, "label": "Level 4 · Subclinical atherosclerosis", "note": "[k]Risk Continuum CKM™[/k]\nLevel 4 | CKM 3 (CAC/subclinical CVD; CKD not established) | CAC 38\n[k]PREVENT ASCVD:[/k] 10y 4.4% (Borderline) | Total CVD: 10y 7.7%\n\n[k]Assessment (ICD-10):[/k]\n- Subclinical coronary atherosclerosis (CAC 38)\n- Primary hypertension (I10)\n- Prediabetes (R73.03)\n\n[k]Risk Drivers:[/k]\nCAC 38\n\n[k]Context:[/k]\n- Lp(a) 82 nmol/L (intermediate)\n\n[k]Management Considerations:[/k]\n- [k]Lipids:[/k] Moderate-intensity statin recommended. LDL-C 128; target <70.\n- [k]Plaque:[/k] Known plaque.\n- [k]Kidney:[/k] Stable.\n- [k]BP:[/k] Confirm BP; treat if persistent. Current BP 132/78 mmHg.\n- [k]Metabolic:[/k] GLP-1 weight therapy: eligible. BMI 29.5 with hypertension; A1c 5.8%.\n- [k]Aspirin:[/k] Not indicated.\n\n[k]Further Risk Assessment:[/k]\n- hsCRP"}, {"name": "Patient D", "meta": "67M · on rosuvastatin 20 mg · CAC 420 · Lp(a) 210", "labs": [["LDL-C", "104 mg/dL on statin"], ["ApoB", "102 mg/dL"], ["Lp(a)", "210 nmol/L"], ["CAC", "420"], ["BP", "126/74 · treated"], ["A1c", "5.9 %"]], "flags": [0, 1, 2, 3], "pos": 90, "label": "Level 5 · Very high risk", "note": "[k]Risk Continuum CKM™[/k]\nLevel 5 | CKM 3 (CAC/subclinical CVD; CKD not established) | CAC 420\n[k]PREVENT:[/k] Not applicable (CAC >=300 indicates severe subclinical cardiovascular disease; PREVENT is not reported in this context)\n\n[k]Assessment (ICD-10):[/k]\n- Severe subclinical coronary atherosclerosis (CAC 420)\n- Primary hypertension (I10)\n- Elevated lipoprotein(a) (E78.41)\n- Hypertriglyceridemia (E78.1)\n- Prediabetes (R73.03)\n\n[k]Risk Drivers:[/k]\nCAC 420 | ApoB 102 mg/dL | Lp(a) 210 nmol/L\n\n[k]Management Considerations:[/k]\n- [k]Lipids:[/k] Currently receiving rosuvastatin 20 mg. LDL-C 104; target <70. Review current lipid-lowering regimen and residual target gap. Consider additional nonstatin LDL-lowering therapy.\n- [k]Plaque:[/k] Known plaque.\n- [k]Kidney:[/k] Stable.\n- [k]BP:[/k] Continue current BP regimen.\n- [k]Metabolic:[/k] GLP-1 weight therapy: eligible. BMI 29 with hypertension; A1c 5.9%.\n- [k]Aspirin:[/k] Low-dose aspirin is generally reasonable if bleeding risk is acceptable."}];
     var marker = document.getElementById("marker"), label = document.getElementById("marker-label");
     var pchips = document.querySelectorAll(".demo .pchip"), note = document.getElementById("note"), body = document.getElementById("note-body"), copy = document.getElementById("copy");
     function esc(s) { return s.replace(/&/g, "&amp;").replace(/</g, "&lt;").replace(/>/g, "&gt;"); }
